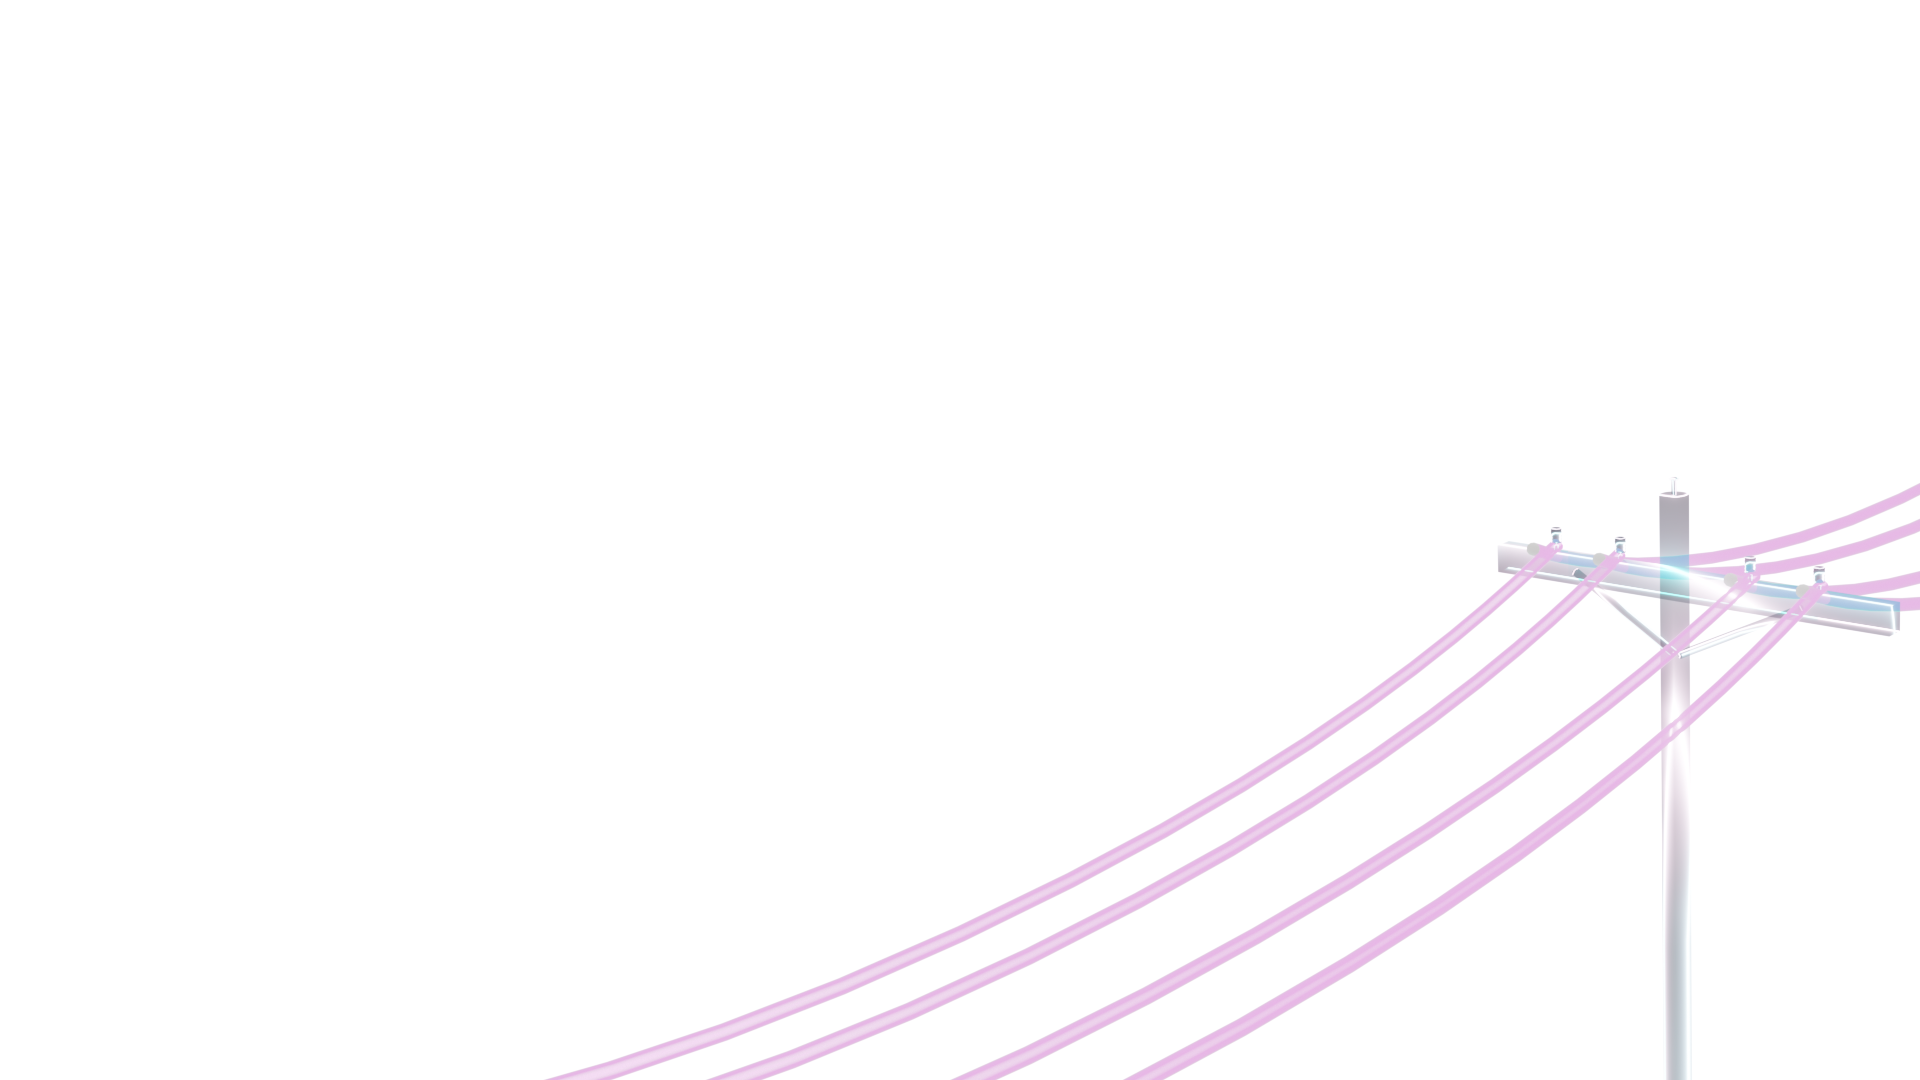
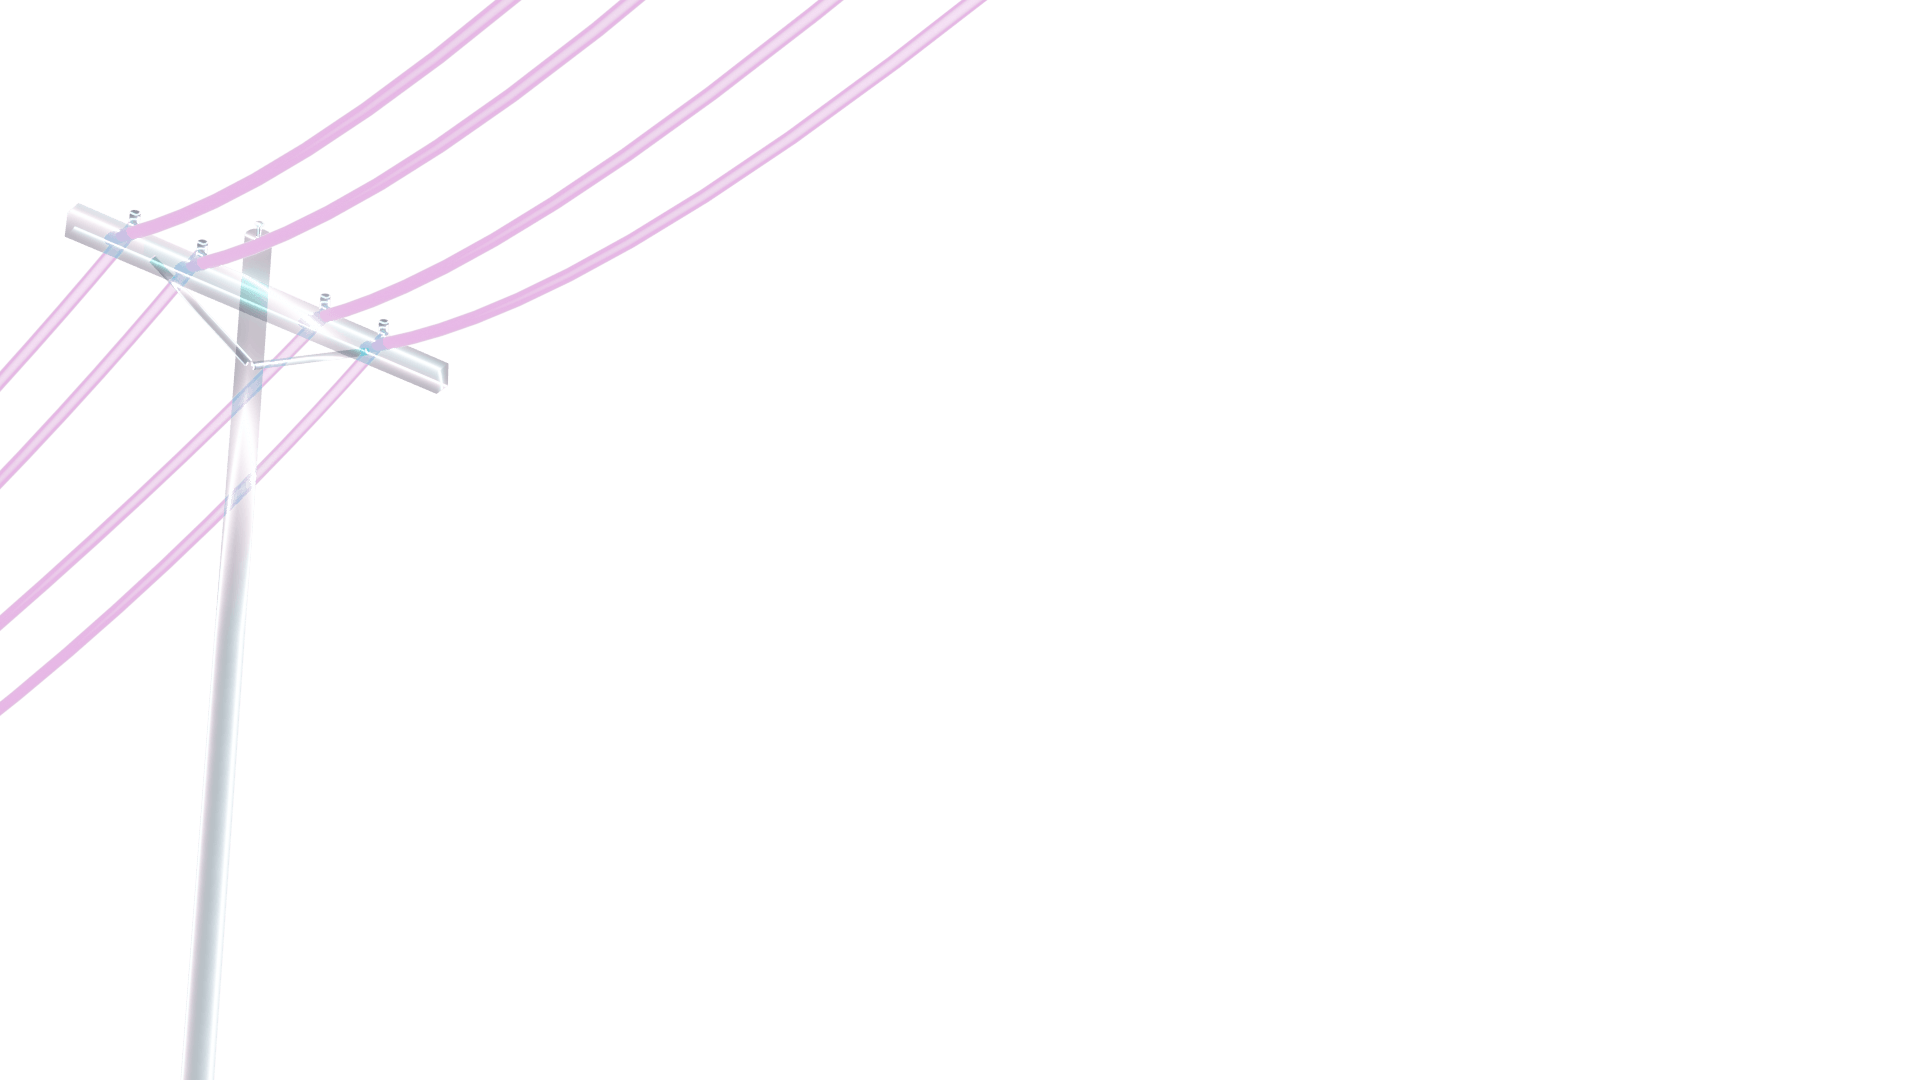
smooth safari

diff --git a/index.html b/index.html
@@ -77,9 +77,9 @@
             <a id="contact page" href="#"></a>
         </div>
      </div>
-     <img id="paral" class="img-bg" data-value="-2" src="./image/bgbutton1.png" alt="bgden" >
+     <img id="paral" class="img-bg" data-value="2" src="./image/bgbutton1.png" alt="bgden" >
      <img id="case" class="img-bg" data-value="4" src="./image/caseleft.png"  alt="caseleft" >
-    <img id="case" class="img-bg" data-value="-4" src="./image/caseright.png" alt="caseright" >
+    <img id="case" class="img-bg" data-value="-3" src="./image/caseright.png" alt="caseright" >
     </div> 
     <div class="pop-up">
     <div id="vangpop" class="pop-up-v">

diff --git a/js/main.js b/js/main.js
@@ -155,8 +155,8 @@ function parallax(e){
     document.querySelectorAll(".img-bg").forEach(function(move){
 
         var moving_value = move.getAttribute("data-value");
-        var x = (e.clientX * moving_value) / 200 ;
-        var y = (e.clientY * moving_value) / 200 ;
+        var x = (e.clientX * moving_value) / 300 ;
+        var y = (e.clientY * moving_value) / 300 ;
 
         move.style.transform = "translateX(" + x + "px) translateY(" + y +"px)";
     })
